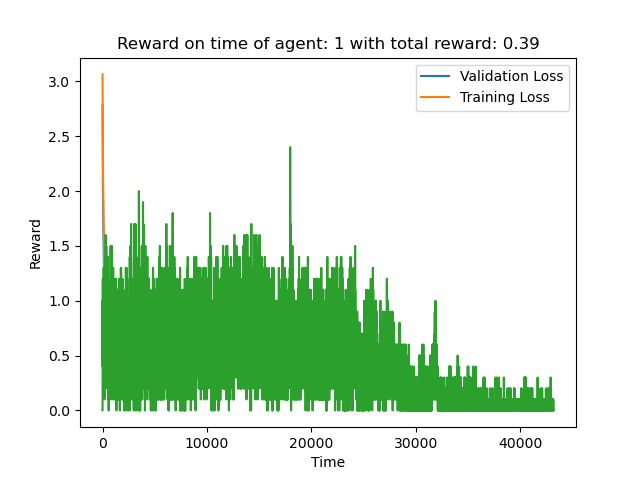
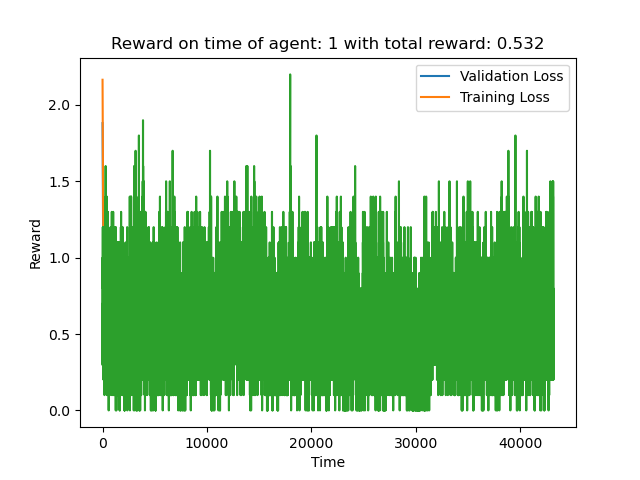
added resampling

diff --git a/RNNtest.py b/RNNtest.py
@@ -11,6 +11,7 @@ from torch.optim import Adam
 import csv
 import matplotlib.pyplot as plt
 from random import shuffle
+from sklearn.utils import resample
 
 
 class LogCoshLoss(nn.Module):
@@ -131,7 +132,7 @@ def create_training_traces(env, mode, inp):
 baseline_agent = None
 agent = None
 
-def get_train_test(states, split_percent=0.8):
+def get_train_test(states, split_percent=0.7):
     n = len(states)
     split = int(n * split_percent)
     train_states = states[:split]
@@ -161,18 +162,13 @@ def imv(state):
     return imputed_state
 
 
-def undersample(X, Y):
-    X_undersampled, Y_undersampled = [], []
-    for i in range(len(X)):
-        if i % 2 == 0:
-            X_undersampled.append(X[i])
-            Y_undersampled.append(Y[i])
-
-    # shuffle
-    c = list(zip(X_undersampled, Y_undersampled))
+def resample_data(X, Y):
+    X_resampled, Y_resampled = resample(X, Y, replace=True, n_samples=len(X) // 2, random_state=123)
+    c = list(zip(X_resampled, Y_resampled))
     shuffle(c)
-    X_undersampled, Y_undersampled = zip(*c)
-    return np.array(X_undersampled), np.array(Y_undersampled)
+    X_resampled, Y_resampled = zip(*c)
+
+    return X_resampled, Y_resampled
 
 
 if __name__ == '__main__':
@@ -210,7 +206,7 @@ if __name__ == '__main__':
     trainX, trainY = get_XY(train_data, time_steps)
     testX, testY = get_XY(test_data, time_steps)
 
-    trainX, trainY = undersample(trainX, trainY)
+    trainX, trainY = resample_data(trainX, trainY)
 
 
 
@@ -361,36 +357,10 @@ if __name__ == '__main__':
 
 
 """
-====== TESTING======
-[total reward]: 0.559
-
-Difference Strong Baseline = Run 3 - Baseline = 0.559 - 0.506 = 0.053
-Percentage growth = (Difference / Baseline) x 100 = 0.053 / 0.506 x 100 = 10.5%
-
-Difference Weak Baseline = Run 3 - Baseline = 0.559 - 0.317 = 0.242
-Percentage growth = (Difference / Baseline) x 100 = 0.242 / 0.317 x 100 = 76.2%
-
-[total reward]: 0.509
-
-Difference Strong Baseline = Run 3 - Baseline = 0.509 - 0.506 = 0.003
-Percentage growth = (Difference / Baseline) x 100 = 0.003 / 0.506 x 100 = 0.6%
-
-Difference Weak Baseline = Run 3 - Baseline = 0.509 - 0.317 = 0.192
-Percentage growth = (Difference / Baseline) x 100 = 0.192 / 0.317 x 100 = 60.6%
-
-[total reward]: 0.502
-
-Difference Strong Baseline = Run 3 - Baseline = 0.502 - 0.506 = -0.004
-Percentage growth = (Difference / Baseline) x 100 = -0.004 / 0.506 x 100 = -0.8%
-
-Difference Weak Baseline = Run 3 - Baseline = 0.502 - 0.317 = 0.185
-Percentage growth = (Difference / Baseline) x 100 = 0.185 / 0.317 x 100 = 58.4%
-
-[total reward]: 0.525
-
-Difference Strong Baseline = Run 3 - Baseline = 0.525 - 0.506 = 0.019
-Percentage growth = (Difference / Baseline) x 100 = 0.019 / 0.506 x 100 = 3.8%
-
-Difference Weak Baseline = Run 3 - Baseline = 0.525 - 0.317 = 0.208
-Percentage growth = (Difference / Baseline) x 100 = 0.208 / 0.317 x 100 = 65.6%
+====== RESULT ======
+Used Historical traces: Baseline Agent
+[total reward]: 0.532
+[Hyperparameters]
+epochs: 2500 lr: 0.001 
+hidden_size: 16 time_steps: 60 loss function: 1
 """
